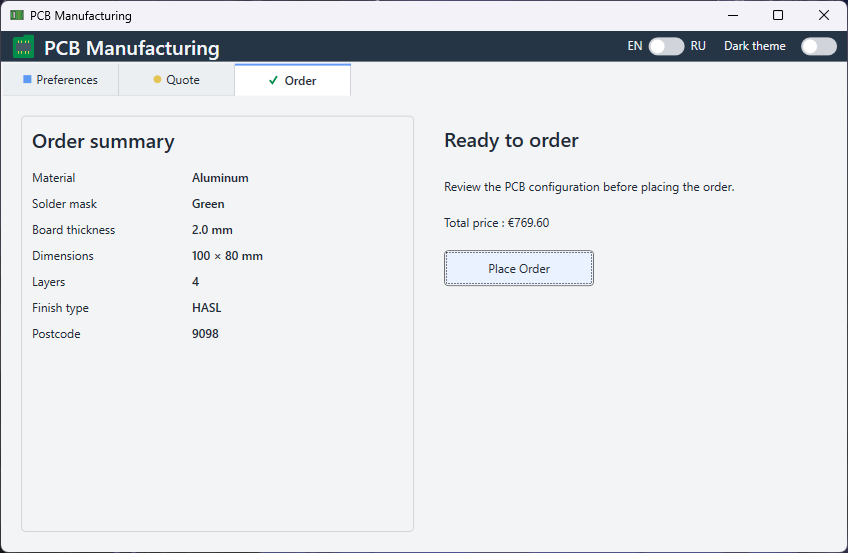
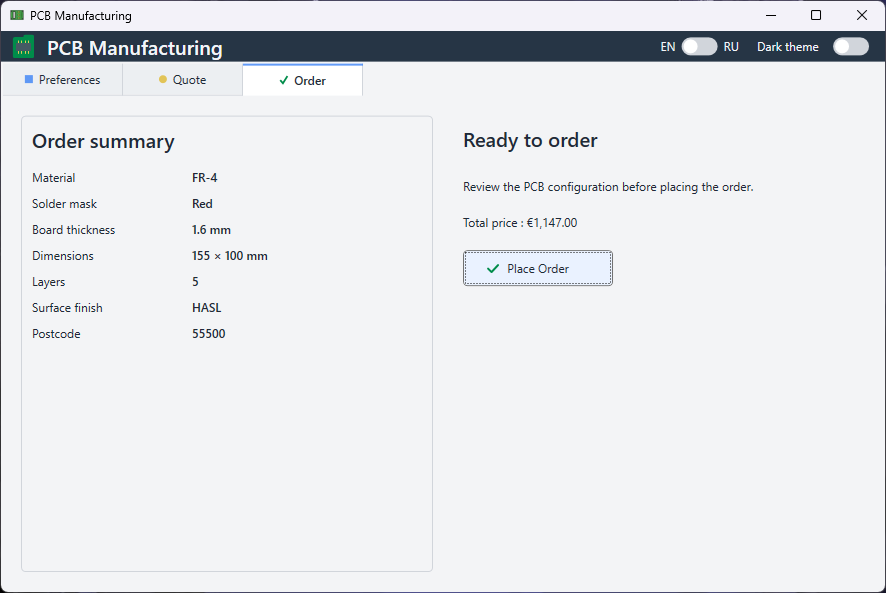
Update screenshots

diff --git a/README.md b/README.md
@@ -25,7 +25,7 @@ The PCB configuration is persisted locally as JSON. Localization is based on `.r
 ## Screenshots
 
 ### Preferences
-![Preferences](PCBManufacturing/Images/PсbPreferences.png)
+![Preferences](PCBManufacturing/Images/PcbPreferences.png)
 
 ### Quote
 
